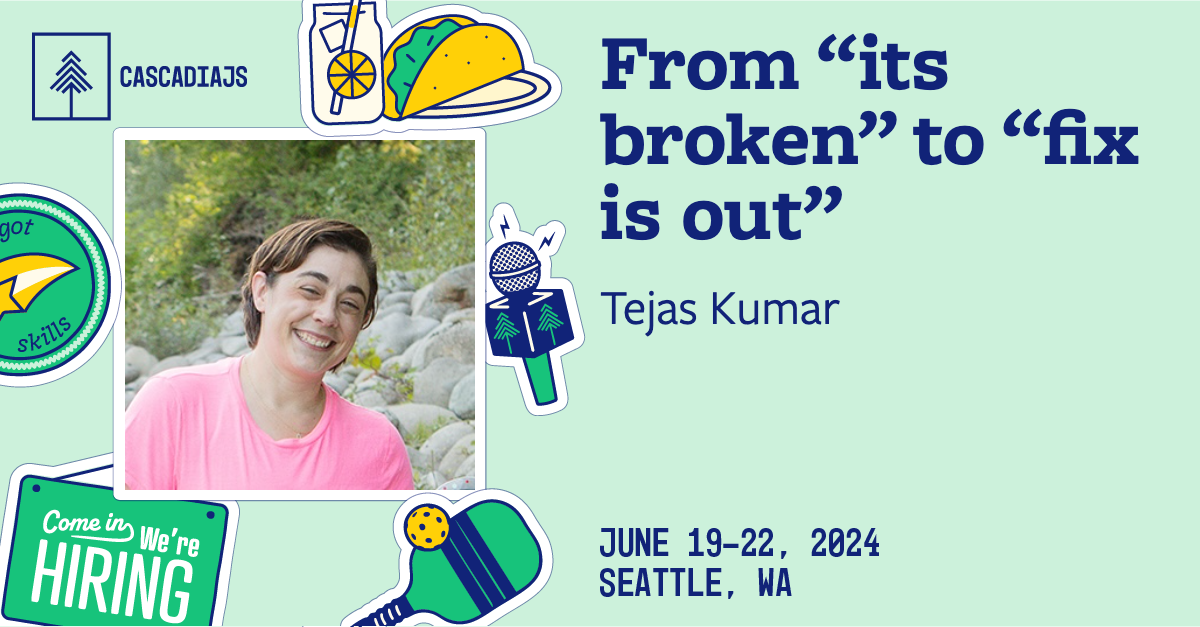
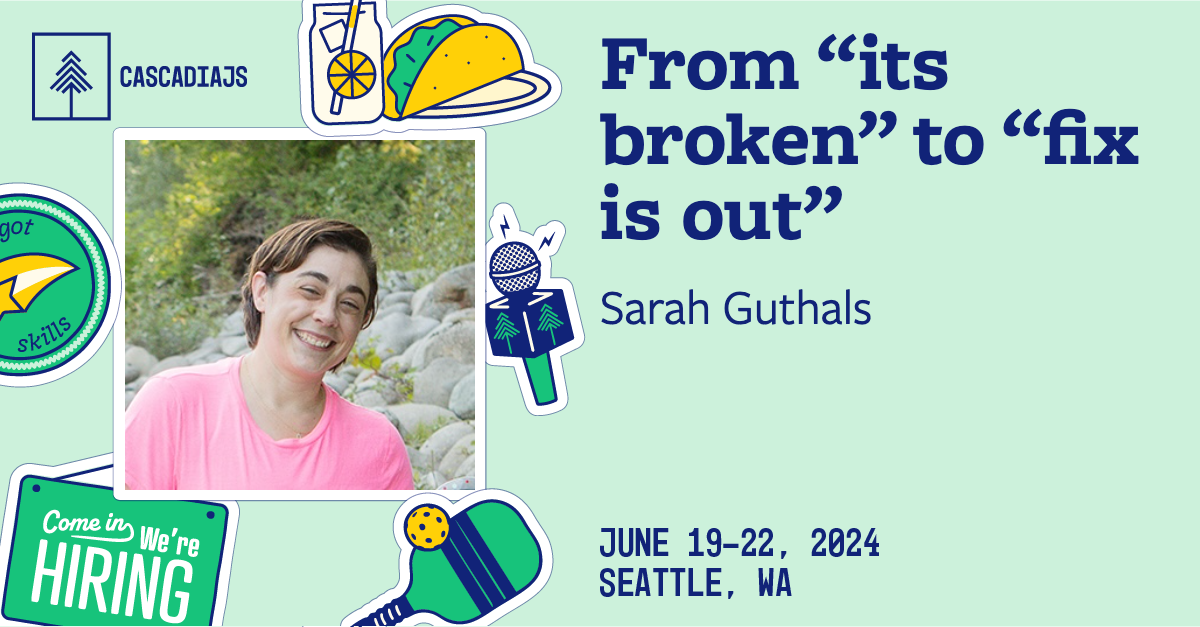
fixed name

Changed region(s): [[0.4933, 0.4545, 0.74, 0.5455]]

diff --git a/app/markdown/2024/workshops/debugging-apps.md b/app/markdown/2024/workshops/debugging-apps.md
@@ -1,7 +1,7 @@
 ---
 title: From “its broken” to “fix is out”
 image: /_public/images/workshops/sarah-guthals.jpg
-excerpt: Tejas Kumar
+excerpt: Sarah Guthals
 ---
 ![Sarah Guthals](/_public/images/workshops/sarah-guthals.jpg)
 
